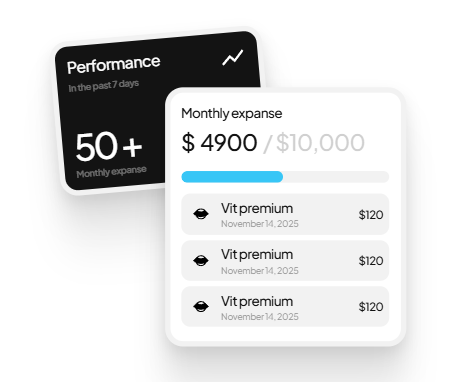
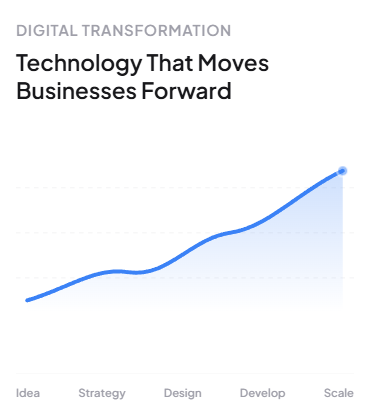
feat: implement About section, service page sections, and infinite card slider component

diff --git a/src/components/Services-Sections.tsx/Section-1.tsx b/src/components/Services-Sections.tsx/Section-1.tsx
@@ -9,22 +9,22 @@ import { InfiniteMovingCards } from "../ui/infinite-moving-cards"
 export function Section1(){
     const items = [
         {
-            image: "https://images.unsplash.com/photo-1573496359142-b8d87734a5a2?auto=format&fit=crop&q=80&w=600"
+            image: "/services-3.png"
         },
         {
-            image: "https://images.unsplash.com/photo-1519085360753-af0119f7cbe7?auto=format&fit=crop&q=80&w=600"
+            image: "/services-4.png"
         },
         {
-            image: "https://images.unsplash.com/photo-1580489944761-15a19d654956?auto=format&fit=crop&q=80&w=600"
+            image: "/services-6.png"
         },
         {
-            image: "https://images.unsplash.com/photo-1507003211169-0a1dd7228f2d?auto=format&fit=crop&q=80&w=600"
+            image: "/sevices-2.png"
         },
         {
-            image: "https://images.unsplash.com/photo-1534528741775-53994a69daeb?auto=format&fit=crop&q=80&w=600"
+            image: "/services-7.png"
         },
         {
-            image: "https://images.unsplash.com/photo-1522071820081-009f0129c71c?auto=format&fit=crop&q=80&w=600"
+            image: "/services-8.png"
         }
     ]
     return(

diff --git a/src/components/ui/infinite-moving-cards.tsx b/src/components/ui/infinite-moving-cards.tsx
@@ -12,6 +12,7 @@ export const InfiniteMovingCards = ({
 }: {
   items: {
     image: string;
+    fit?: "cover" | "contain";
   }[];
   direction?: "left" | "right";
   speed?: "fast" | "normal" | "slow";
@@ -87,16 +88,19 @@ export const InfiniteMovingCards = ({
         )}
       >
         {items.map((item, idx) => {
-          
+          const fitMode = item.fit || "cover";
           return (
             <li
-              className="relative w-[300px] h-[270px] shrink-0 rounded-3xl overflow-hidden  shadow-md md:w-[300px] md:h-[270px] "
+              className="relative w-[300px] h-[300px] shrink-0 rounded-3xl overflow-hidden shadow-md md:w-[300px] md:h-[300px]"
               key={`${item.image}-${idx}`}
             >
               <img
                 src={item.image}
                 alt=""
-                className="w-full h-full object-cover pointer-events-none"
+                className={cn(
+                  "w-full h-full pointer-events-none",
+                  fitMode === "cover" ? "object-cover" : "object-contain bg-neutral-50"
+                )}
                 loading="lazy"
               />
             </li>

diff --git a/src/components/Services-Sections.tsx/Section-2.tsx b/src/components/Services-Sections.tsx/Section-2.tsx
@@ -47,8 +47,8 @@ export function Section2(){
                   <img src="./sevices-2.png" className="absolute inset-0 w-full h-full object-cover pointer-events-none" alt="Innovation and tech consulting" />
                 </div>
 
-                <div className="relative rounded-3xl overflow-hidden  transition-all duration-300 w-full h-full min-h-[320px]">
-                  <img src="./services-3.png" className="absolute inset-0 w-full h-full object-cover pointer-events-none" alt="Data analytics and dashboard" />
+                <div className="relative rounded-3xl overflow-hidden  transition-all duration-300 w-full h-full min-h-[325px]">
+                  <img src="./services-9.png" className="absolute inset-0 w-full h-full object-contain pointer-events-none" alt="Data analytics and dashboard" />
                 </div>
 
                 <div className="bg-neutral-50/60 dark:bg-neutral-900/60 border border-neutral-100 dark:border-neutral-800 rounded-3xl p-8  transition-all duration-300 flex flex-col justify-between items-start text-left min-h-[320px] w-full">
@@ -82,7 +82,7 @@ export function Section2(){
                 </div>
 
                 <div className="relative rounded-3xl overflow-hidden  transition-all duration-300 w-full h-full min-h-[320px]">
-                  <img src="./services-4.png" className="absolute inset-0 w-full h-full object-cover pointer-events-none" alt="Developer collaboration" />
+                  <img src="./services-10.png" className="absolute inset-0 w-full h-full object-cover pointer-events-none" alt="Developer collaboration" />
                 </div>
 
                 <div className="bg-neutral-50/60 dark:bg-neutral-900/60 border border-neutral-100 dark:border-neutral-800 rounded-3xl p-8  transition-all duration-300 flex flex-col justify-between items-start text-left min-h-[320px] w-full">

diff --git a/src/components/About-Sections/Section-1.tsx b/src/components/About-Sections/Section-1.tsx
@@ -59,8 +59,8 @@ export function Section1() {
                 {/* Right Side */}
                 <div className="w-full md:w-1/2 flex justify-center relative mt-10 md:mt-0">
                     <img 
-                        className="absolute left-1/2 -translate-x-1/2 top-50 sm:-bottom-6 rounded-2xl w-40 h-52 sm:w-56 sm:h-72 object-cover z-10" 
-                        src="/about-2.png" 
+                        className="absolute left-1/2 -translate-x-1/2 top-50 sm:-bottom-6 rounded-2xl w-40 h-52 sm:w-56 sm:h-72 object-contain z-10" 
+                        src="/about-3.png" 
                         alt="EZ Soft Tech" 
                     />
                     <img

diff --git a/src/components/Services-Sections.tsx/Section-3.tsx b/src/components/Services-Sections.tsx/Section-3.tsx
@@ -8,8 +8,8 @@ export function Section3(){
     return(
     <section className="grid grid-cols-1 lg:grid-cols-2 gap-12 items-center max-w-7xl mx-auto px-6 py-16 md:py-24">
         <div className="flex flex-col items-start text-left max-w-xl lg:pl-12">
-            <h2 className="text-3xl md:text-4xl lg:text-[44px] font-bold mb-6 text-neutral-900 leading-tight">Ready to Scale Your Business With AI-Powered Solutions?</h2>
-            <p className="text-neutral-600 text-sm sm:text-base md:text-lg leading-relaxed">Our AI solutions are designed to help businesses of all sizes unlock their full potential. From automating repetitive tasks to gaining valuable insights from data, we have the expertise to help you achieve your goals.</p>
+            <h2 className="text-3xl md:text-4xl lg:text-[44px] font-bold mb-6 text-neutral-900 leading-tight">Ready to Start Your Project in Bilaspur?</h2>
+            <p className="text-neutral-600 text-sm sm:text-base md:text-lg leading-relaxed">Contact the best software company in Bilaspur for a free consultation. Let's discuss your requirements and create a solution that perfectly fits your business needs.</p>
         </div>
         <div className="w-full flex justify-center lg:justify-end">
             <img className="rounded-[32px] shadow-lg w-full h-auto object-cover max-h-[450px]" src="./services-5.png" alt="" />